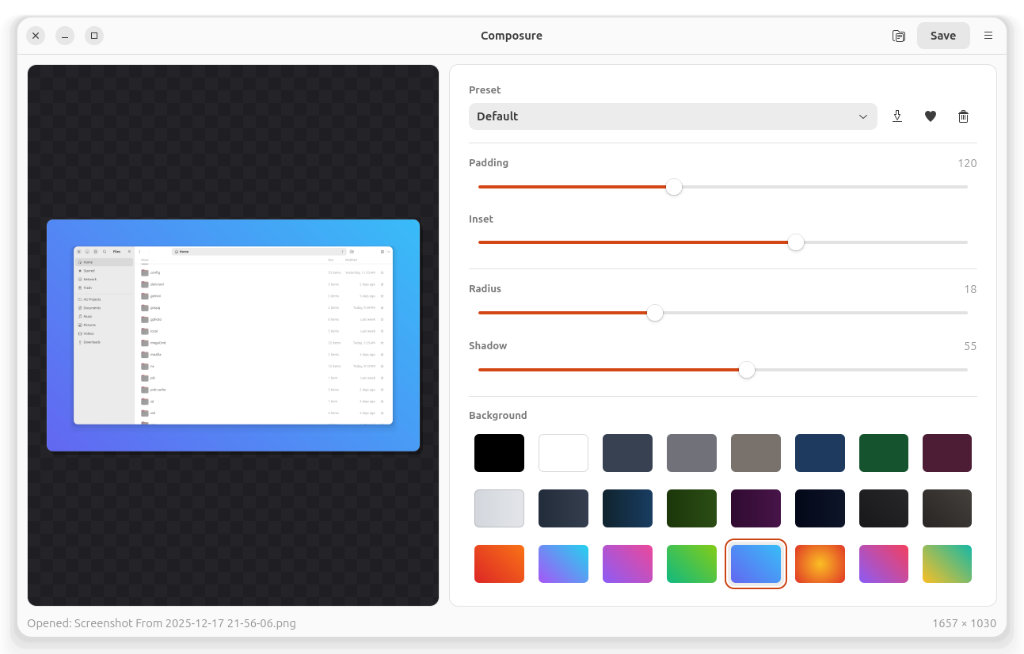
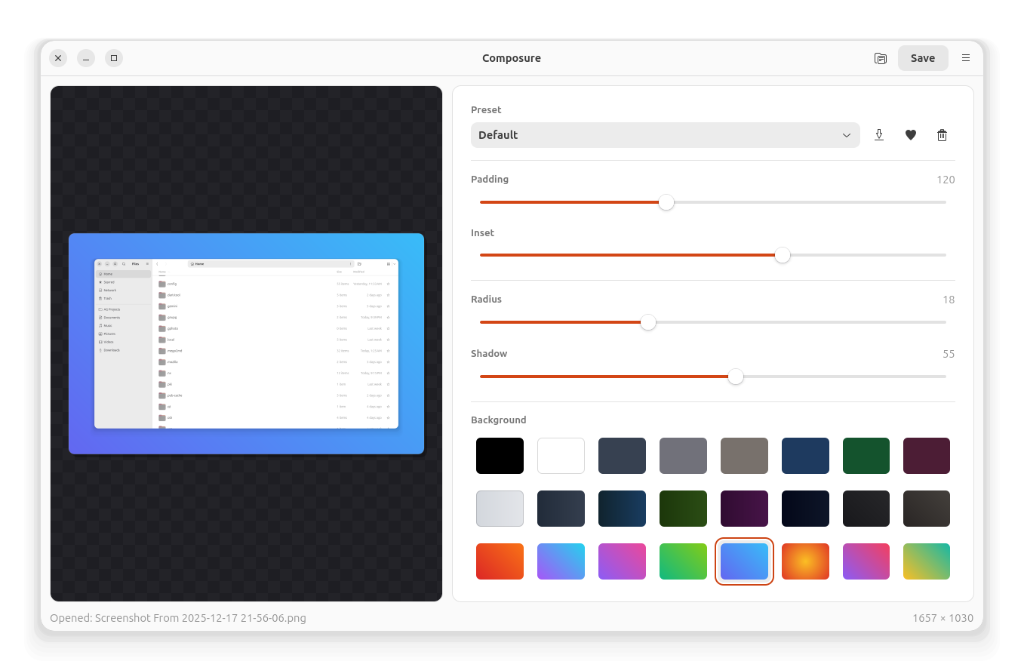
Update README screenshot

diff --git a/README.md b/README.md
@@ -10,7 +10,7 @@
 </p>
 
 <p align="center">
-  <img src="docs/screenshot.png?v=2" alt="Composure Screenshot">
+  <img src="docs/screenshot.png?v=3" alt="Composure Screenshot">
 </p>
 
 ## ✨ Features
